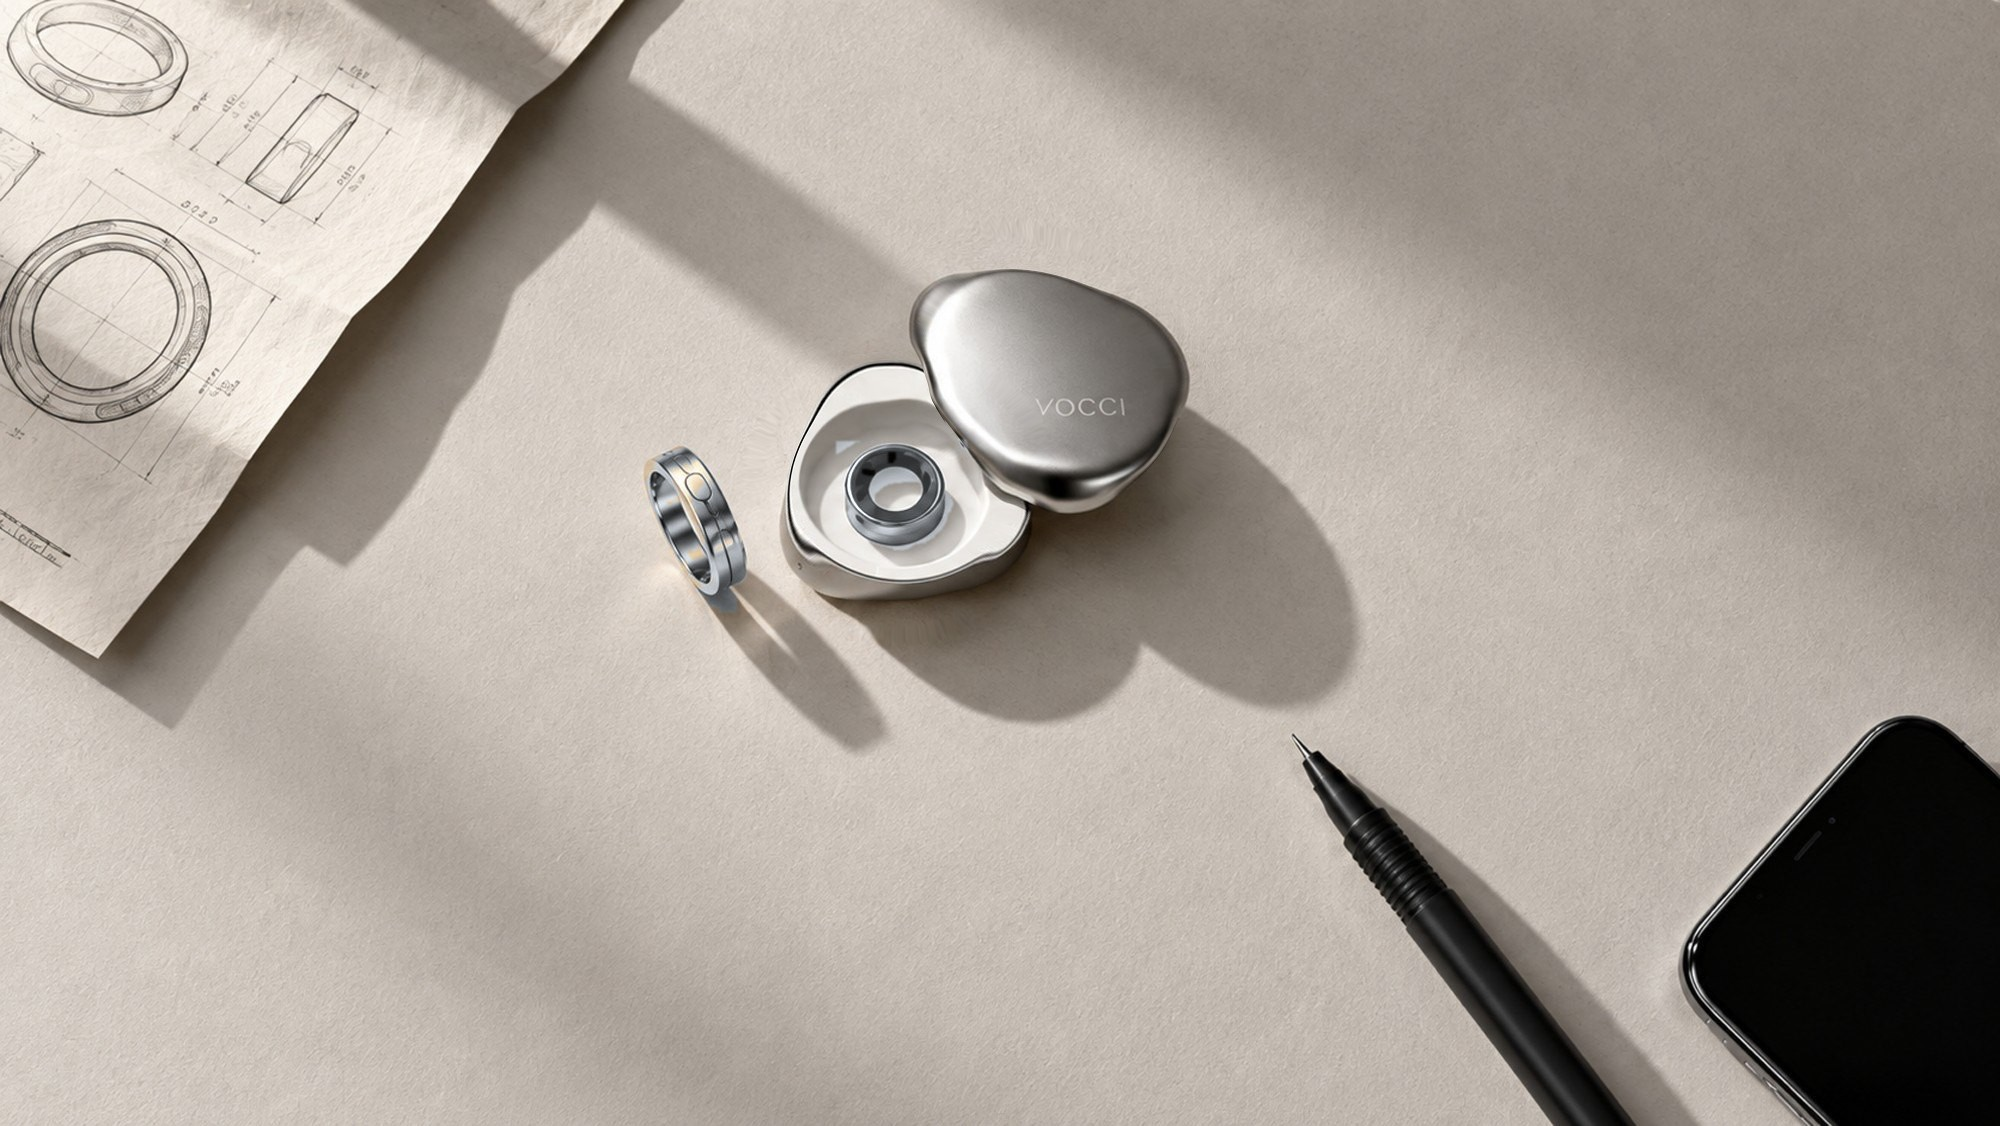
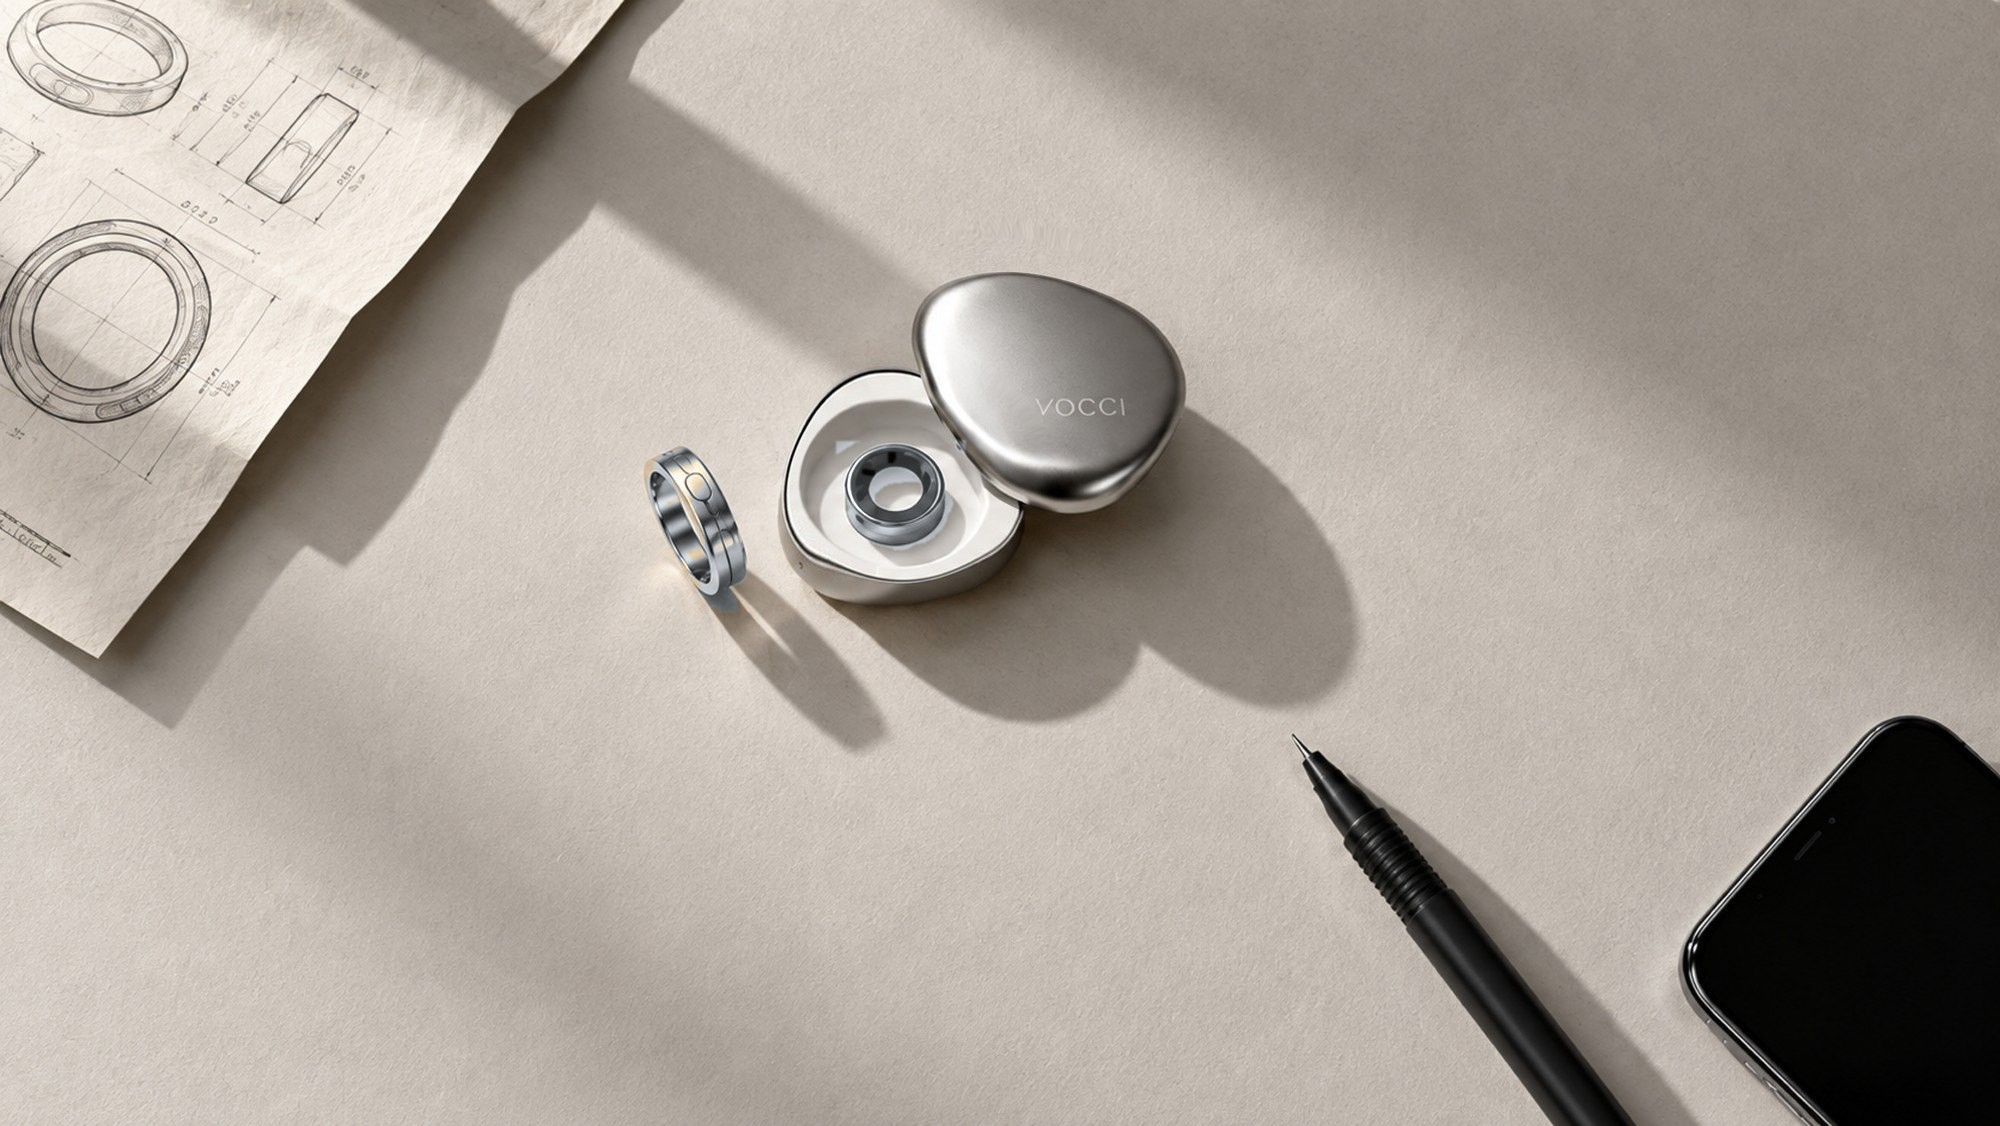
1011-zz16: hero case reshaped as a soft pebble

diff --git a/homepage-1011/index.html b/homepage-1011/index.html
@@ -3302,7 +3302,7 @@ section .btns>*{margin-top:0!important;margin-bottom:0!important;align-self:cent
 /* 1011-zz11 · screen 3 card: no orange dot (spacing kept as before) */
 #why .rec-card .rec-dot{display:none!important}
 
-</style><div id="pagebg" aria-hidden="true"><i class="lq lq1"></i><i class="lq lq2"></i><i class="lq lq3"></i></div><main class="page gridall" data-ui="classic" data-skin="v2" data-round="0928"><section id="hero" data-bgop="0"><div class="stage "><img class="bgimg" fetchpriority="high" decoding="async" src="img3/hero-desk-tri.jpg" alt="Vocci rings and charging case on a desk" style="object-position:50% 45%;opacity:1"><i class="vl" style="left:0"></i><i class="vl" style="left:25%"></i><i class="vl" style="left:50%"></i><i class="vl" style="left:75%"></i><i class="vl" style="left:calc(100% - 1px)"></i><i class="hl" style="top:0"></i><i class="sqr" style="left:0;top:0"></i><i class="sqr" style="left:25%;top:0"></i><i class="sqr" style="left:50%;top:0"></i><i class="sqr" style="left:75%;top:0"></i><i class="sqr" style="left:100%;top:0"></i><i class="hl" style="top:calc(100% - 1px)"></i><i class="sqr" style="left:0;top:calc(100% - 1px)"></i><i class="sqr" style="left:25%;top:calc(100% - 1px)"></i><i class="sqr" style="left:50%;top:calc(100% - 1px)"></i><i class="sqr" style="left:75%;top:calc(100% - 1px)"></i><i class="sqr" style="left:100%;top:calc(100% - 1px)"></i><nav class="nav nav3"><div class="navbar n3-bar"><a class="wordmark" href="#hero" aria-label="VOCCI"><svg xmlns="http://www.w3.org/2000/svg" viewBox="0 0 205 56" fill="none" stroke="currentColor" aria-hidden="true"><path stroke-width="7" stroke-linejoin="round" d="M4.2 2.5L18.6 49.2L33 2.5"/>
+</style><div id="pagebg" aria-hidden="true"><i class="lq lq1"></i><i class="lq lq2"></i><i class="lq lq3"></i></div><main class="page gridall" data-ui="classic" data-skin="v2" data-round="0928"><section id="hero" data-bgop="0"><div class="stage "><img class="bgimg" fetchpriority="high" decoding="async" src="img3/hero-desk-pebble.jpg" alt="Vocci rings and charging case on a desk" style="object-position:50% 45%;opacity:1"><i class="vl" style="left:0"></i><i class="vl" style="left:25%"></i><i class="vl" style="left:50%"></i><i class="vl" style="left:75%"></i><i class="vl" style="left:calc(100% - 1px)"></i><i class="hl" style="top:0"></i><i class="sqr" style="left:0;top:0"></i><i class="sqr" style="left:25%;top:0"></i><i class="sqr" style="left:50%;top:0"></i><i class="sqr" style="left:75%;top:0"></i><i class="sqr" style="left:100%;top:0"></i><i class="hl" style="top:calc(100% - 1px)"></i><i class="sqr" style="left:0;top:calc(100% - 1px)"></i><i class="sqr" style="left:25%;top:calc(100% - 1px)"></i><i class="sqr" style="left:50%;top:calc(100% - 1px)"></i><i class="sqr" style="left:75%;top:calc(100% - 1px)"></i><i class="sqr" style="left:100%;top:calc(100% - 1px)"></i><nav class="nav nav3"><div class="navbar n3-bar"><a class="wordmark" href="#hero" aria-label="VOCCI"><svg xmlns="http://www.w3.org/2000/svg" viewBox="0 0 205 56" fill="none" stroke="currentColor" aria-hidden="true"><path stroke-width="7" stroke-linejoin="round" d="M4.2 2.5L18.6 49.2L33 2.5"/>
 <path stroke-width="7" d="M82.57 7.37A24.00 24.00 0 1 1 56.43 7.37"/>
 <path stroke-width="2.6" d="M58.39 3.66A26.30 26.30 0 0 1 80.61 3.66"/>
 <path stroke-width="2.6" d="M60.21 8.45A21.20 21.20 0 0 1 78.79 8.45"/>

diff --git a/homepage-1011/src/patch.py b/homepage-1011/src/patch.py
@@ -483,7 +483,7 @@ s = s[:_m.start()] + _t + s[_m.end():]
 # ---------- 1007-y · hero: new desk photo (ring + case), no separate case layer ----------
 _a = '<img class="bgimg" fetchpriority="high" decoding="async" src="img3/hero-linen.jpg" alt="" style="object-position:50% 50%;opacity:1">'
 assert _a in s
-s = s.replace(_a, '<img class="bgimg" fetchpriority="high" decoding="async" src="img3/hero-desk-tri.jpg" alt="Vocci rings and charging case on a desk" style="object-position:50% 45%;opacity:1">', 1)
+s = s.replace(_a, '<img class="bgimg" fetchpriority="high" decoding="async" src="img3/hero-desk-pebble.jpg" alt="Vocci rings and charging case on a desk" style="object-position:50% 45%;opacity:1">', 1)
 s = re.sub(r'<img class="bgimg hero-top"[^>]*>', '', s, count=1)
 
 # ---------- 1011 · reorder sections to the 3.0 framework ----------
